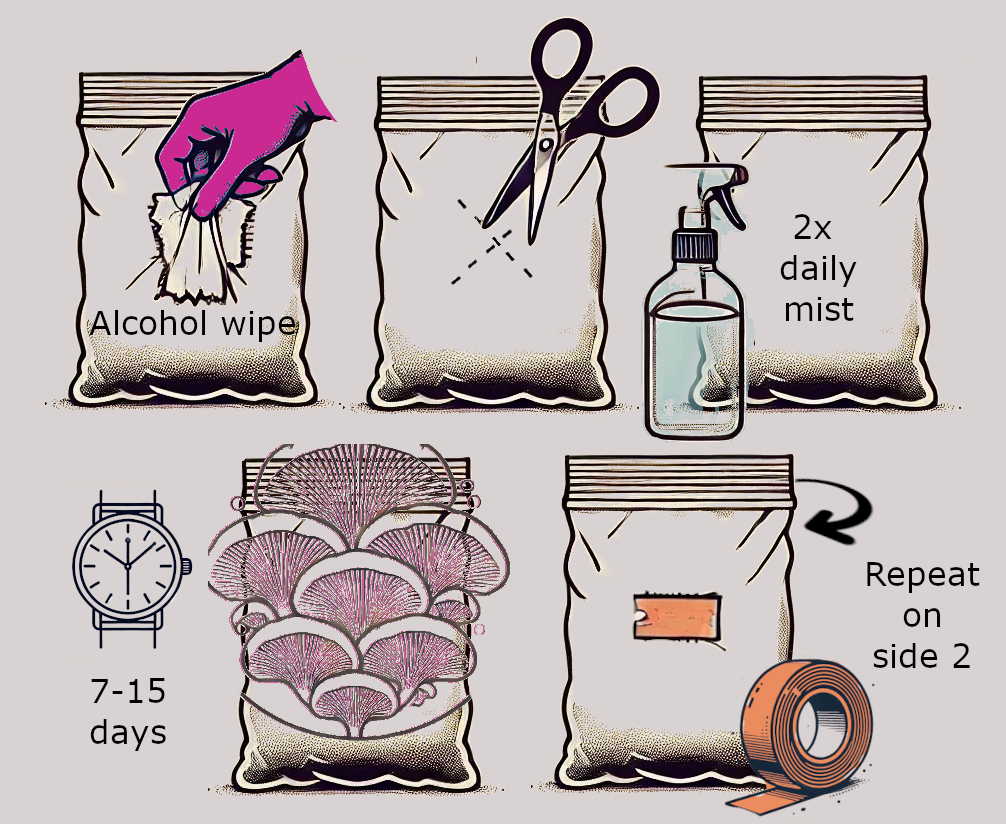
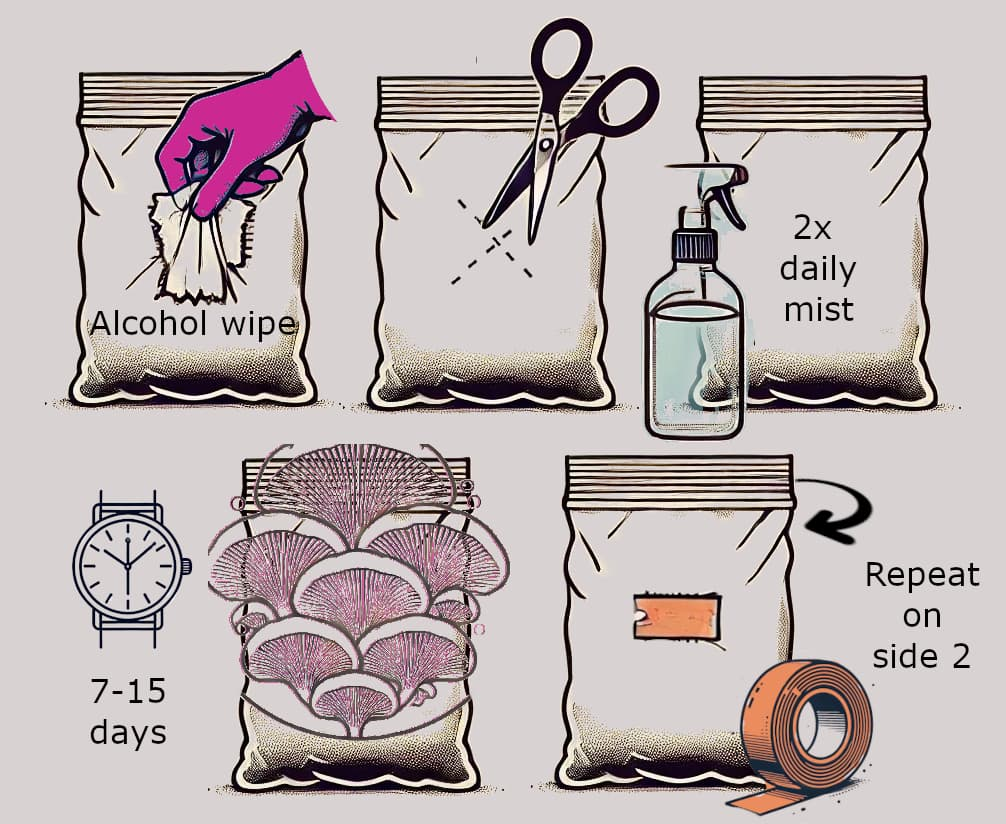
images changed to compressed files

diff --git a/index.html b/index.html
@@ -56,31 +56,31 @@ body {font-family: "Lato", sans-serif}
 
 <!-- Transparent Banner -->
 <div class="banner" id="#">
-  <img src="SporePlay_banner3.png" alt="Banner Image">
+  <img src="SporePlay_banner_top (2).png" alt="Banner Image">
 </div>
 
 <div class="w3-content" style="max-width:2000px;margin-top:46px">
 
   <!-- Automatic Slideshow Images -->
   <div class="mySlides w3-display-container w3-center">
-    <img src="PXL_20241026_182519968.PORTRAIT (1).jpg" style="height: 150%" width=80%>
+    <img src="PXL_20241026_182519968.PORTRAIT (1) (1).jpg" style="height: 150%" width=80%>
     <div class="w3-display-bottommiddle w3-container w3-text-white w3-padding-32 w3-hide-small">
-      <h3>Pink Oyster</h3>
-      <p><b>Delicious and beautiful</b></p>   
+      <h3>Delicious and beautiful</h3>
+      <p><b>-</b></p>   
     </div>
   </div>
   <div class="mySlides w3-display-container w3-center">
-    <img src="cover_image1_branded.png" style="height: 150%" width=80%>
+    <img src="cover_image1_branded.jpg" style="height: 150%" width=80%>
     <div class="w3-display-bottommiddle w3-container w3-text-white w3-padding-32 w3-hide-small">
-      <h3>Pink Oyster</h3>
-      <p><b>Easy and quick to grow</b></p>    
+      <h3>Quick and easy to grow</h3>
+      <p><b>-</b></p>    
     </div>
   </div>
   <div class="mySlides w3-display-container w3-center">
-    <img src="PXL_20241027_091454252.PORTRAIT (1).jpg" style="height: 150%" width=80%>
+    <img src="PXL_20241027_091454252.PORTRAIT (1) (1).jpg" style="height: 150%" width=80%>
     <div class="w3-display-bottommiddle w3-container w3-text-white w3-padding-32 w3-hide-small">
-      <h3>Pink Oyster</h3>
-      <p><b>Harvest twice</b></p>    
+      <h3>Harvest twice</h3>
+      <p><b>-</b></p>    
     </div>
   </div>
 
@@ -98,7 +98,7 @@ body {font-family: "Lato", sans-serif}
     <!-- The Recipes Section -->
     <div class="w3-container w3-content w3-center w3-padding-64" style="max-width:800px" id="Recipes">
       <h2 class="w3-wide">Recipes</h2>
-      <p class="w3-opacity"><i>Pink or king Oyster 'bacon'</i></p>
+      <p class="w3-opacity"><i>Pink Oyster 'bacon'</i></p>
       <p class="w3-justify">Plenty of fat and heat is key here. Go easy on the salt. Heat a good tablespoon of
          butter or ghee in a pan on medium heat. Add torn apart mushrooms. When mushrooms soften, add a pinch 
          of salt and half a teaspoon of smoked papkrika. Mushrooms are done when they are crispy and browned
@@ -107,7 +107,7 @@ body {font-family: "Lato", sans-serif}
   
            <img src="oyster-mushroom-bacon-SQUARE-500x375.jpg" style="width:70%">
 
-      <p class="w3-opacity"><i>Pink or king Oyster 'bacon'</i></p>
+      <p class="w3-opacity"><i>King Oyster saute</i></p>
       <p class="w3-justify">Plenty of fat and heat is key here. Go easy on the salt. Heat a good tablespoon of
         butter or ghee in a pan on medium heat. Add torn apart mushrooms. When mushrooms soften, add a pinch 
         of salt and half a teaspoon of smoked papkrika. Mushrooms are done when they are crispy and browned
@@ -118,37 +118,7 @@ body {font-family: "Lato", sans-serif}
       </div>
     </div>
 
-    
-      <!-- The FAQ Section -->
-  <div class="w3-container w3-content w3-center w3-padding-64" style="max-width:800px" id="FAQs">
-    <h2 class="w3-wide">Frequently Asked Questions</h2>
-    <p class="w3-opacity"><i>Follow these simple steps</i></p>
 
-    <div class="faq-content">
-      <div class="faq-question">
-        <input id="q1" type="checkbox" class="panel">
-        <div class="plus">+</div>
-        <label for="q1" class="panel-title">What is the meaning of life?</label>
-        <div class="panel-content">42</div>
-      </div>
-      
-      <div class="faq-question">
-        <input id="q2" type="checkbox" class="panel">
-        <div class="plus">+</div>
-        <label for="q2" class="panel-title">How much wood would a woodchuck chuck?</label>
-        <div class="panel-content">A woodchuck would chuck all the wood he could chuck, if a woodchuck could chuck wood!</div>
-      </div>
-      
-      <div class="faq-question">
-        <input id="q3" type="checkbox" class="panel">
-        <div class="plus">+</div>
-        <label for="q3" class="panel-title">What happens if Pinocchio says, "my nose will grow now"?</label>
-        <div class="panel-content">Certain questions are better left &nbsp; <a href="https://en.wikipedia.org/wiki/The_Unanswered_Question" target="_blank">unanswered</a></div>
-      </div>
-    </div>
-
-    </div>
-  </div>
 
       <!-- The how its made Section -->
   <div class="w3-container w3-content w3-center w3-padding-64" style="max-width:800px" id="Story">
@@ -157,17 +127,17 @@ body {font-family: "Lato", sans-serif}
     <p class="w3-justify">When your grow kit arrives it is ready to fruit mushrooms. It can be kept in a cool,
          dark place for up to 1 month before you begin growing. See the FAQs section for more tips and tricks.</p>
 
-         <img src="mycielium_image.jpg" style="width:70%">
+         <img src="mycielium_image (1).jpg" style="width:70%">
 
          <p class="w3-justify">When your grow kit arrives it is ready to fruit mushrooms. It can be kept in a cool,
           dark place for up to 1 month before you begin growing. See the FAQs section for more tips and tricks.</p>
 
-         <img src="lc_image.jpg" style="width:70%">
+         <img src="lc_image (1).jpg" style="width:70%">
 
          <p class="w3-justify">When your grow kit arrives it is ready to fruit mushrooms. It can be kept in a cool,
           dark place for up to 1 month before you begin growing. See the FAQs section for more tips and tricks.</p>
 
-          <img src="substrate_collonising.jpg" style="width:70%">
+          <img src="substrate_collonising (1).jpg" style="width:70%">
           
           <p class="w3-justify">When your grow kit arrives it is ready to fruit mushrooms. It can be kept in a cool,
             dark place for up to 1 month before you begin growing. See the FAQs section for more tips and tricks.</p>
@@ -182,10 +152,40 @@ body {font-family: "Lato", sans-serif}
       <p class="w3-justify">When your grow kit arrives it is ready to fruit mushrooms. It can be kept in a cool,
            dark place for up to 1 month before you begin growing. See the FAQs section for more tips and tricks.</p>
   
-           <img src="grainjar_image.jpg" style="width:70%">
+           <img src="grainjar_image (1).jpg" style="width:70%">
       </div>
     </div>
-
+    
+      <!-- The FAQ Section -->
+      <div class="w3-container w3-content w3-center w3-padding-64" style="max-width:800px" id="FAQs">
+        <h2 class="w3-wide">Frequently Asked Questions</h2>
+        <p class="w3-opacity"><i>Follow these simple steps</i></p>
+    
+        <div class="faq-content">
+          <div class="faq-question">
+            <input id="q1" type="checkbox" class="panel">
+            <div class="plus">+</div>
+            <label for="q1" class="panel-title">What is the meaning of life?</label>
+            <div class="panel-content">42</div>
+          </div>
+          
+          <div class="faq-question">
+            <input id="q2" type="checkbox" class="panel">
+            <div class="plus">+</div>
+            <label for="q2" class="panel-title">How much wood would a woodchuck chuck?</label>
+            <div class="panel-content">A woodchuck would chuck all the wood he could chuck, if a woodchuck could chuck wood!</div>
+          </div>
+          
+          <div class="faq-question">
+            <input id="q3" type="checkbox" class="panel">
+            <div class="plus">+</div>
+            <label for="q3" class="panel-title">What happens if Pinocchio says, "my nose will grow now"?</label>
+            <div class="panel-content">Certain questions are better left &nbsp; <a href="https://en.wikipedia.org/wiki/The_Unanswered_Question" target="_blank">unanswered</a></div>
+          </div>
+        </div>
+    
+        </div>
+      </div>
     
     <!-- <div class="w3-row w3-padding-32">
       <div class="w3-third">
@@ -203,69 +203,6 @@ body {font-family: "Lato", sans-serif}
     <!-- </div>
   </div> -->
 
-  <!-- The Tour Section
-  <div class="w3-black" id="tour">
-    <div class="w3-container w3-content w3-padding-64" style="max-width:800px">
-      <h2 class="w3-wide w3-center">TOUR DATES</h2>
-      <p class="w3-opacity w3-center"><i>Remember to book your tickets!</i></p><br>
-
-      <ul class="w3-ul w3-border w3-white w3-text-grey">
-        <li class="w3-padding">September <span class="w3-tag w3-red w3-margin-left">Sold out</span></li>
-        <li class="w3-padding">October <span class="w3-tag w3-red w3-margin-left">Sold out</span></li>
-        <li class="w3-padding">November <span class="w3-badge w3-right w3-margin-right">3</span></li>
-      </ul>
-
-      <div class="w3-row-padding w3-padding-32" style="margin:0 -16px">
-        <div class="w3-third w3-margin-bottom">
-          <img src="/w3images/newyork.jpg" alt="New York" style="width:100%" class="w3-hover-opacity">
-          <div class="w3-container w3-white">
-            <p><b>New York</b></p>
-            <p class="w3-opacity">Fri 27 Nov 2016</p>
-            <p>Praesent tincidunt sed tellus ut rutrum sed vitae justo.</p>
-            <button class="w3-button w3-black w3-margin-bottom" onclick="document.getElementById('ticketModal').style.display='block'">Buy Tickets</button>
-          </div>
-        </div>
-        <div class="w3-third w3-margin-bottom">
-          <img src="/w3images/paris.jpg" alt="Paris" style="width:100%" class="w3-hover-opacity">
-          <div class="w3-container w3-white">
-            <p><b>Paris</b></p>
-            <p class="w3-opacity">Sat 28 Nov 2016</p>
-            <p>Praesent tincidunt sed tellus ut rutrum sed vitae justo.</p>
-            <button class="w3-button w3-black w3-margin-bottom" onclick="document.getElementById('ticketModal').style.display='block'">Buy Tickets</button>
-          </div>
-        </div>
-        <div class="w3-third w3-margin-bottom">
-          <img src="/w3images/sanfran.jpg" alt="San Francisco" style="width:100%" class="w3-hover-opacity">
-          <div class="w3-container w3-white">
-            <p><b>San Francisco</b></p>
-            <p class="w3-opacity">Sun 29 Nov 2016</p>
-            <p>Praesent tincidunt sed tellus ut rutrum sed vitae justo.</p>
-            <button class="w3-button w3-black w3-margin-bottom" onclick="document.getElementById('ticketModal').style.display='block'">Buy Tickets</button>
-          </div>
-        </div>
-      </div>
-    </div>
-  </div> -->
-
-  <!-- Ticket Modal
-  <div id="ticketModal" class="w3-modal">
-    <div class="w3-modal-content w3-animate-top w3-card-4">
-      <header class="w3-container w3-teal w3-center w3-padding-32"> 
-        <span onclick="document.getElementById('ticketModal').style.display='none'" 
-       class="w3-button w3-teal w3-xlarge w3-display-topright">×</span>
-        <h2 class="w3-wide"><i class="fa fa-suitcase w3-margin-right"></i>Tickets</h2>
-      </header>
-      <div class="w3-container">
-        <p><label><i class="fa fa-shopping-cart"></i> Tickets, $15 per person</label></p>
-        <input class="w3-input w3-border" type="text" placeholder="How many?">
-        <p><label><i class="fa fa-user"></i> Send To</label></p>
-        <input class="w3-input w3-border" type="text" placeholder="Enter email">
-        <button class="w3-button w3-block w3-teal w3-padding-16 w3-section w3-right">PAY <i class="fa fa-check"></i></button>
-        <button class="w3-button w3-red w3-section" onclick="document.getElementById('ticketModal').style.display='none'">Close <i class="fa fa-remove"></i></button>
-        <p class="w3-right">Need <a href="#" class="w3-text-blue">help?</a></p>
-      </div>
-    </div>
-  </div> -->
 
   <!-- The Contact Section -->
   <div class="w3-container w3-content w3-padding-64" style="max-width:800px" id="Contact">
@@ -277,19 +214,7 @@ body {font-family: "Lato", sans-serif}
         <!-- <i class="fa fa-phone" style="width:30px"></i> Phone: +00 151515<br> -->
         <i class="fa fa-envelope" style="width:30px"> </i> Email: rachel.cooper01@gmail.com<br>
       </div>
-      <div class="w3-col m6">
-        <form action="/action_page.php" target="_blank">
-          <div class="w3-row-padding" style="margin:0 -16px 8px -16px">
-            <div class="w3-half">
-              <input class="w3-input w3-border" type="text" placeholder="Name" required name="Name">
-            </div>
-            <div class="w3-half">
-              <input class="w3-input w3-border" type="text" placeholder="Email" required name="Email">
-            </div>
-          </div>
-          <input class="w3-input w3-border" type="text" placeholder="Message" required name="Message">
-          <button class="w3-button w3-black w3-section w3-right" type="submit">SEND</button>
-        </form>
+
       </div>
     </div>
   </div>
@@ -298,7 +223,7 @@ body {font-family: "Lato", sans-serif}
 </div>
 
 <!-- Image of location/map -->
-<img src="SporePlay_banner_bottom.png" class="w3-image" style="width:100%" style="height:50px">
+<img src="SporePlay_banner_bottom.jpg" class="w3-image" style="width:100%" style="height:50px">
 
 <!-- Footer -->
 <footer class="w3-container w3-padding-64 w3-center w3-opacity w3-light-grey w3-xlarge">

diff --git a/style.css b/style.css
@@ -878,7 +878,7 @@ a {
 .w3-top,.w3-bottom {
     position: fixed;
     width: 100%;
-    z-index: 1100
+    z-index: 5500
 }
 
 .w3-top {
@@ -1821,6 +1821,7 @@ a {
   padding: 10px 10px 0 48px;
   display: block;
   cursor: pointer;
+  z-index: 5000;
 }
 
 .panel-content {
@@ -1829,26 +1830,28 @@ a {
   margin: 0 40px;
   height: 0;
   overflow: hidden;
-  z-index: -1;
+  /* z-index: -1; */
   position: relative;
   opacity: 0;
   -webkit-transition: .4s ease;
   -moz-transition: .4s ease;
   -o-transition: .4s ease;
   transition: .4s ease;
+  z-index: 5000;
 }
 
 .panel:checked ~ .panel-content{
   height: auto;
   opacity: 1;
   padding: 14px;
+  z-index: 5000;
 }
 
 .plus {
   position: absolute;
   margin-left: 20px;
   margin-top: 4px;
-  z-index: 1500;
+  z-index: 5000;
   font-size: 42px;
   line-height: 100%;
   -webkit-user-select: none;    
